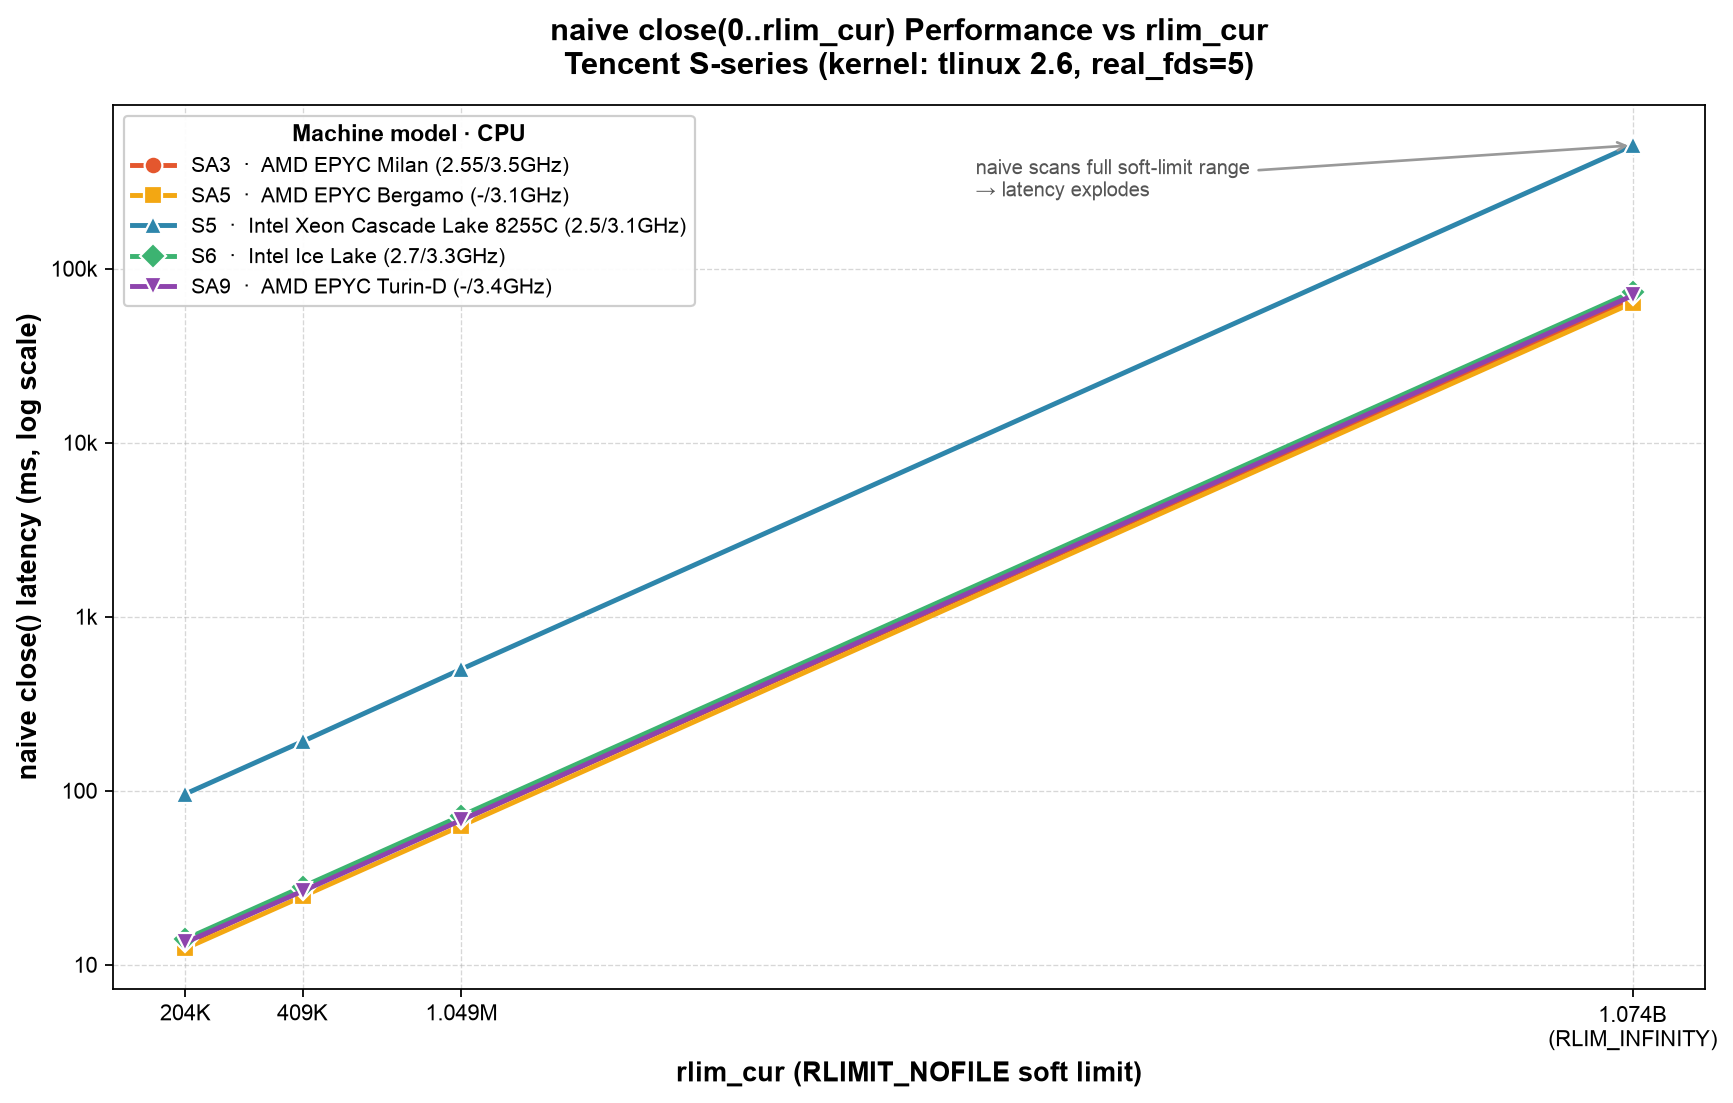
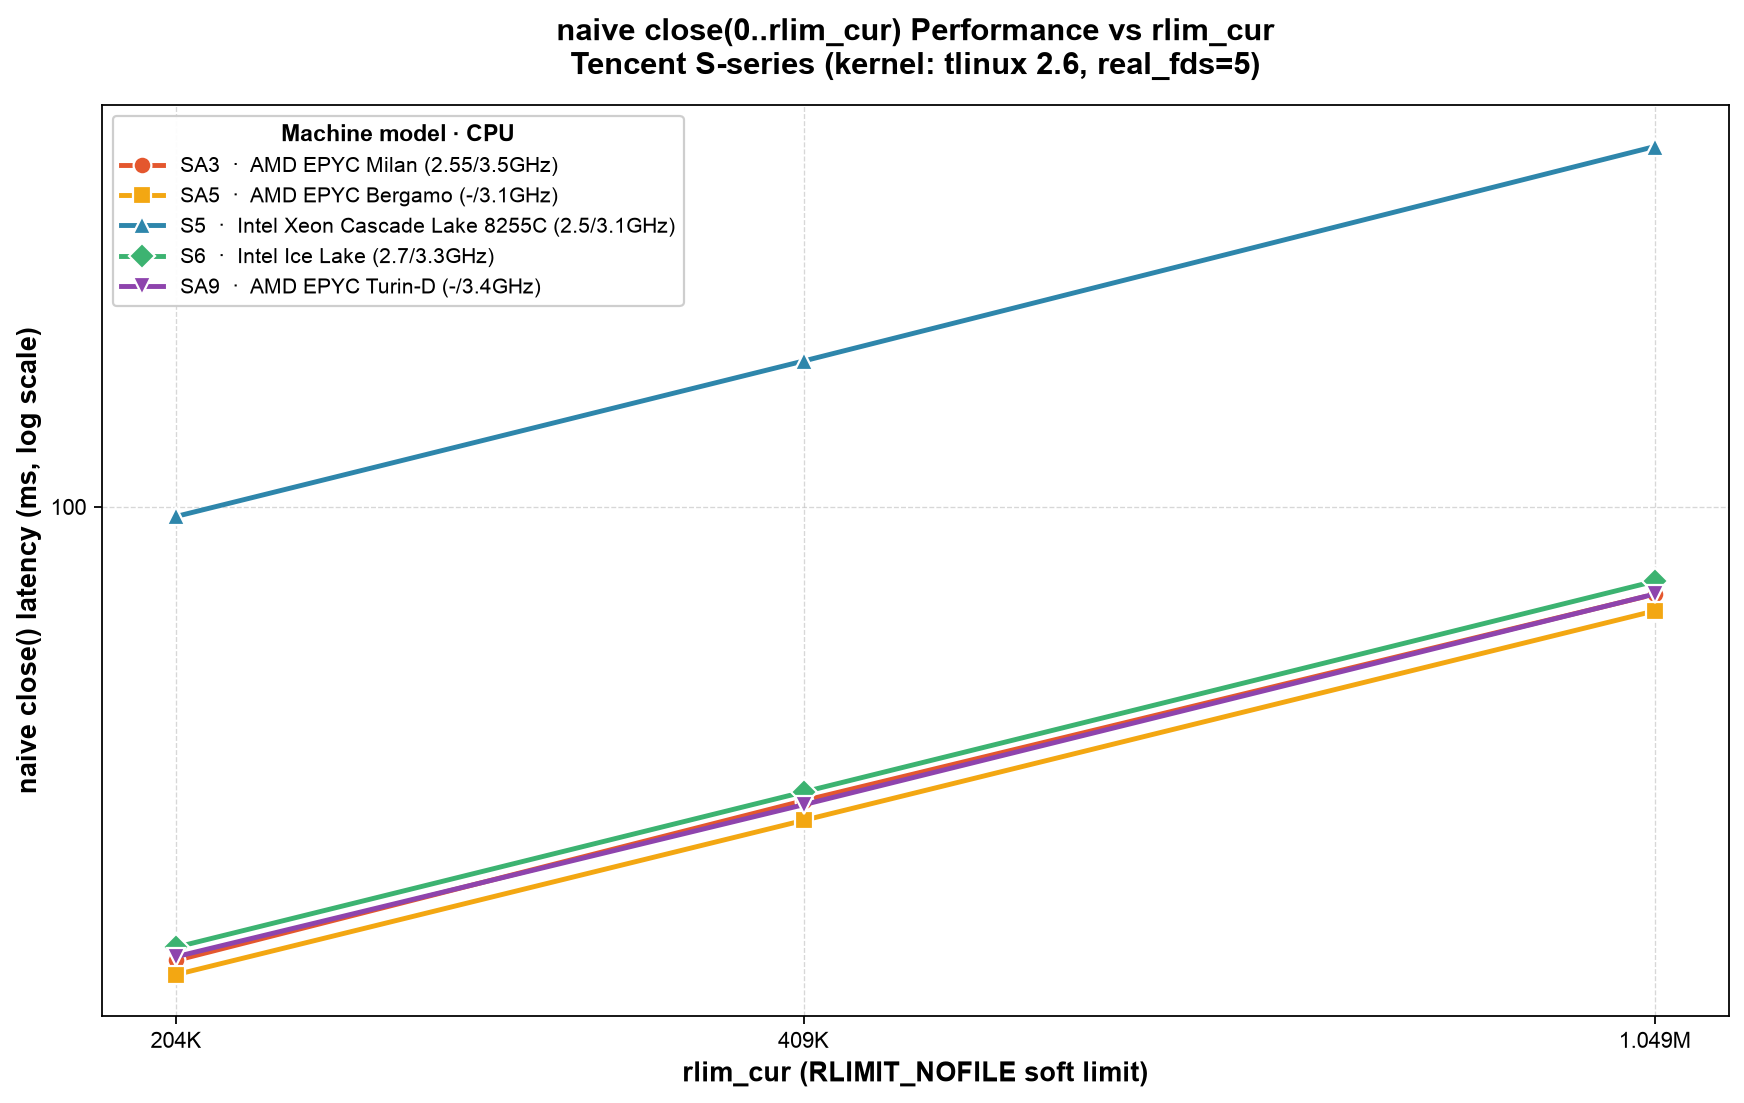
drop RLIM_INFINITY point to keep y-axis readable

diff --git a/rlim-close-bench/plot.py b/rlim-close-bench/plot.py
@@ -5,20 +5,20 @@ from matplotlib.ticker import FuncFormatter
 
 plt.rcParams["font.family"] = ["Arial", "Helvetica", "DejaVu Sans"]
 
-rlim = [204800, 409600, 1048576, 1073741816]
+rlim = [204800, 409600, 1048576]
 
 # (label, cpu, ip, color, marker, naive_ms[])
 series = [
     ("SA3", "AMD EPYC Milan (2.55/3.5GHz)", "30.49.40.64",
-     "#E4572E", "o", [13.2071, 26.9422, 67.6947, 67200.3911]),
+     "#E4572E", "o", [13.2071, 26.9422, 67.6947]),
     ("SA5", "AMD EPYC Bergamo (-/3.1GHz)", "21.245.122.28",
-     "#F3A712", "s", [12.3957, 24.6781, 62.8519, 63561.2595]),
+     "#F3A712", "s", [12.3957, 24.6781, 62.8519]),
     ("S5",  "Intel Xeon Cascade Lake 8255C (2.5/3.1GHz)", "11.177.159.161",
-     "#2E86AB", "^", [95.7748, 191.6635, 499.0416, 510840.4242]),
+     "#2E86AB", "^", [95.7748, 191.6635, 499.0416]),
     ("S6",  "Intel Ice Lake (2.7/3.3GHz)", "30.49.239.225",
-     "#3CB371", "D", [14.0108, 28.0092, 71.7231, 73436.9288]),
+     "#3CB371", "D", [14.0108, 28.0092, 71.7231]),
     ("SA9", "AMD EPYC Turin-D (-/3.4GHz)", "11.152.253.72",
-     "#8E44AD", "v", [13.4291, 26.4631, 67.7505, 70065.8636]),
+     "#8E44AD", "v", [13.4291, 26.4631, 67.7505]),
 ]
 
 fig, ax = plt.subplots(figsize=(11, 7), dpi=160)
@@ -63,12 +63,6 @@ leg = ax.legend(title="Machine model · CPU", loc="upper left",
                 fontsize=9.5, title_fontsize=10.5, framealpha=0.95,
                 edgecolor="#cccccc")
 leg.get_title().set_fontweight("bold")
-
-# 标注 RLIM_INFINITY 处的巨大跳变
-ax.annotate("naive scans full soft-limit range\n→ latency explodes",
-            xy=(1073741816, 510840.4242), xytext=(2.2e7, 260000),
-            fontsize=9, color="#555555",
-            arrowprops=dict(arrowstyle="->", color="#999999", lw=1.2))
 
 fig.tight_layout()
 out = "/Users/sasalu_1/.workbuddy/ai-artifacts/rlim-close-bench/rlim_close_naive_compare.png"
